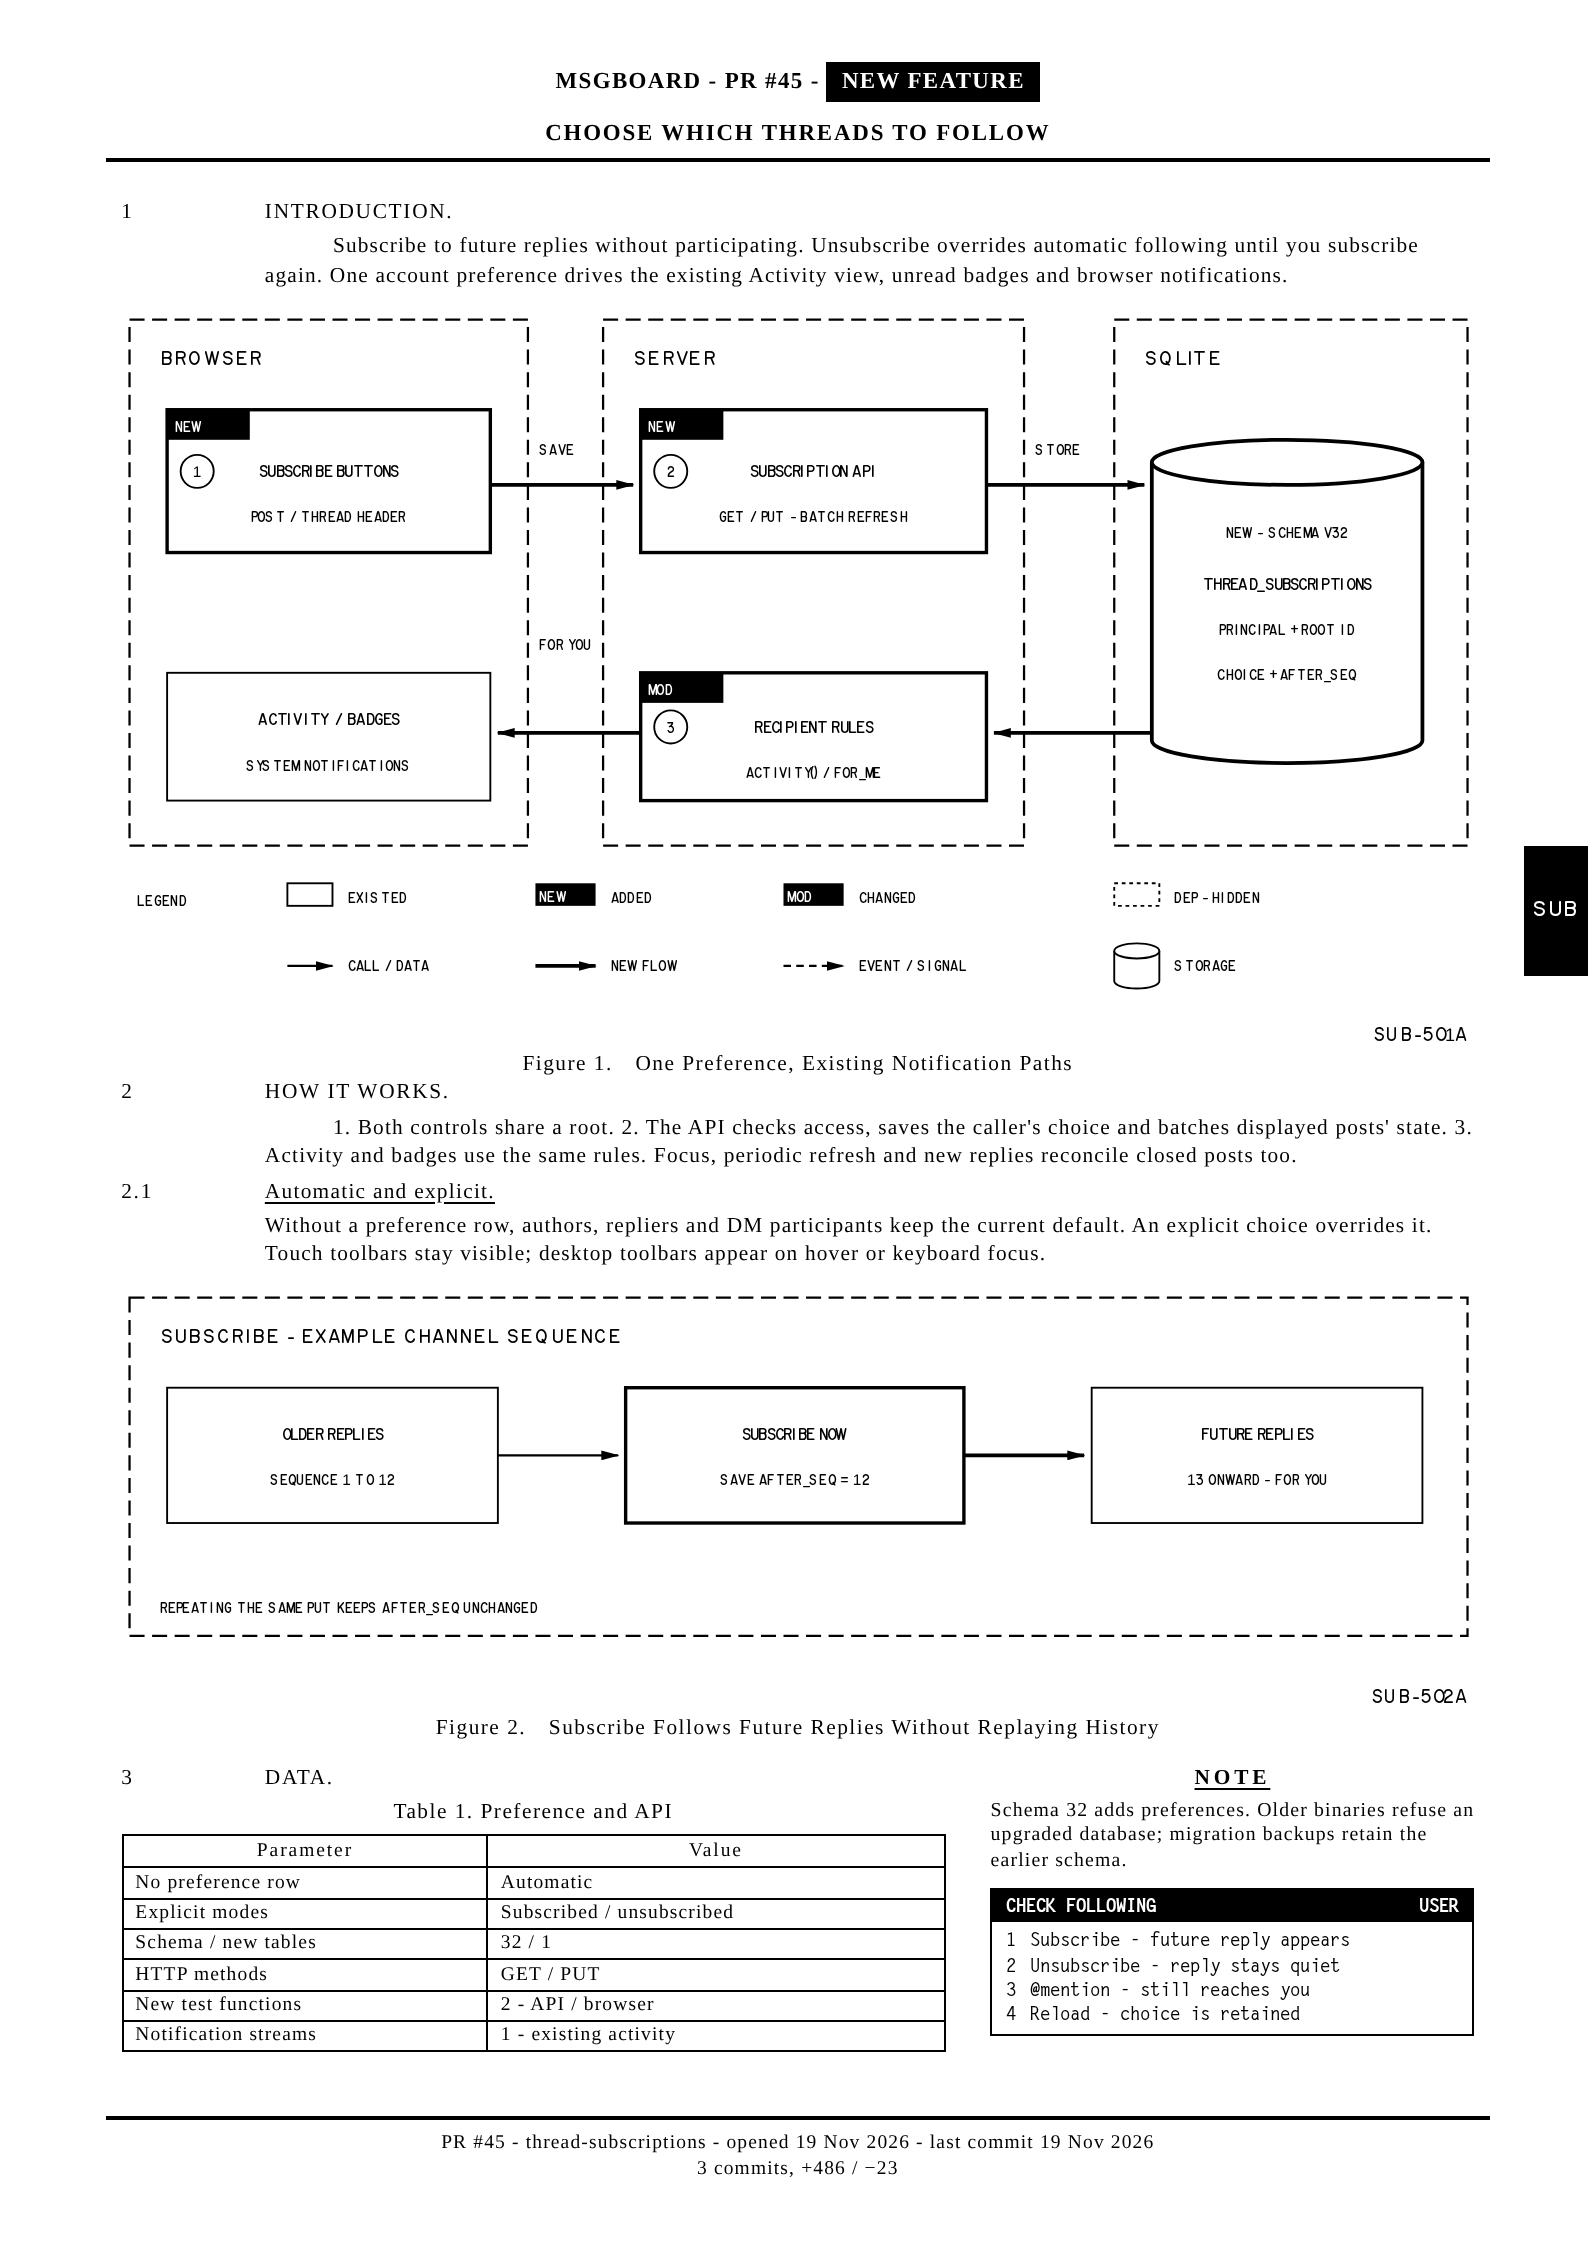
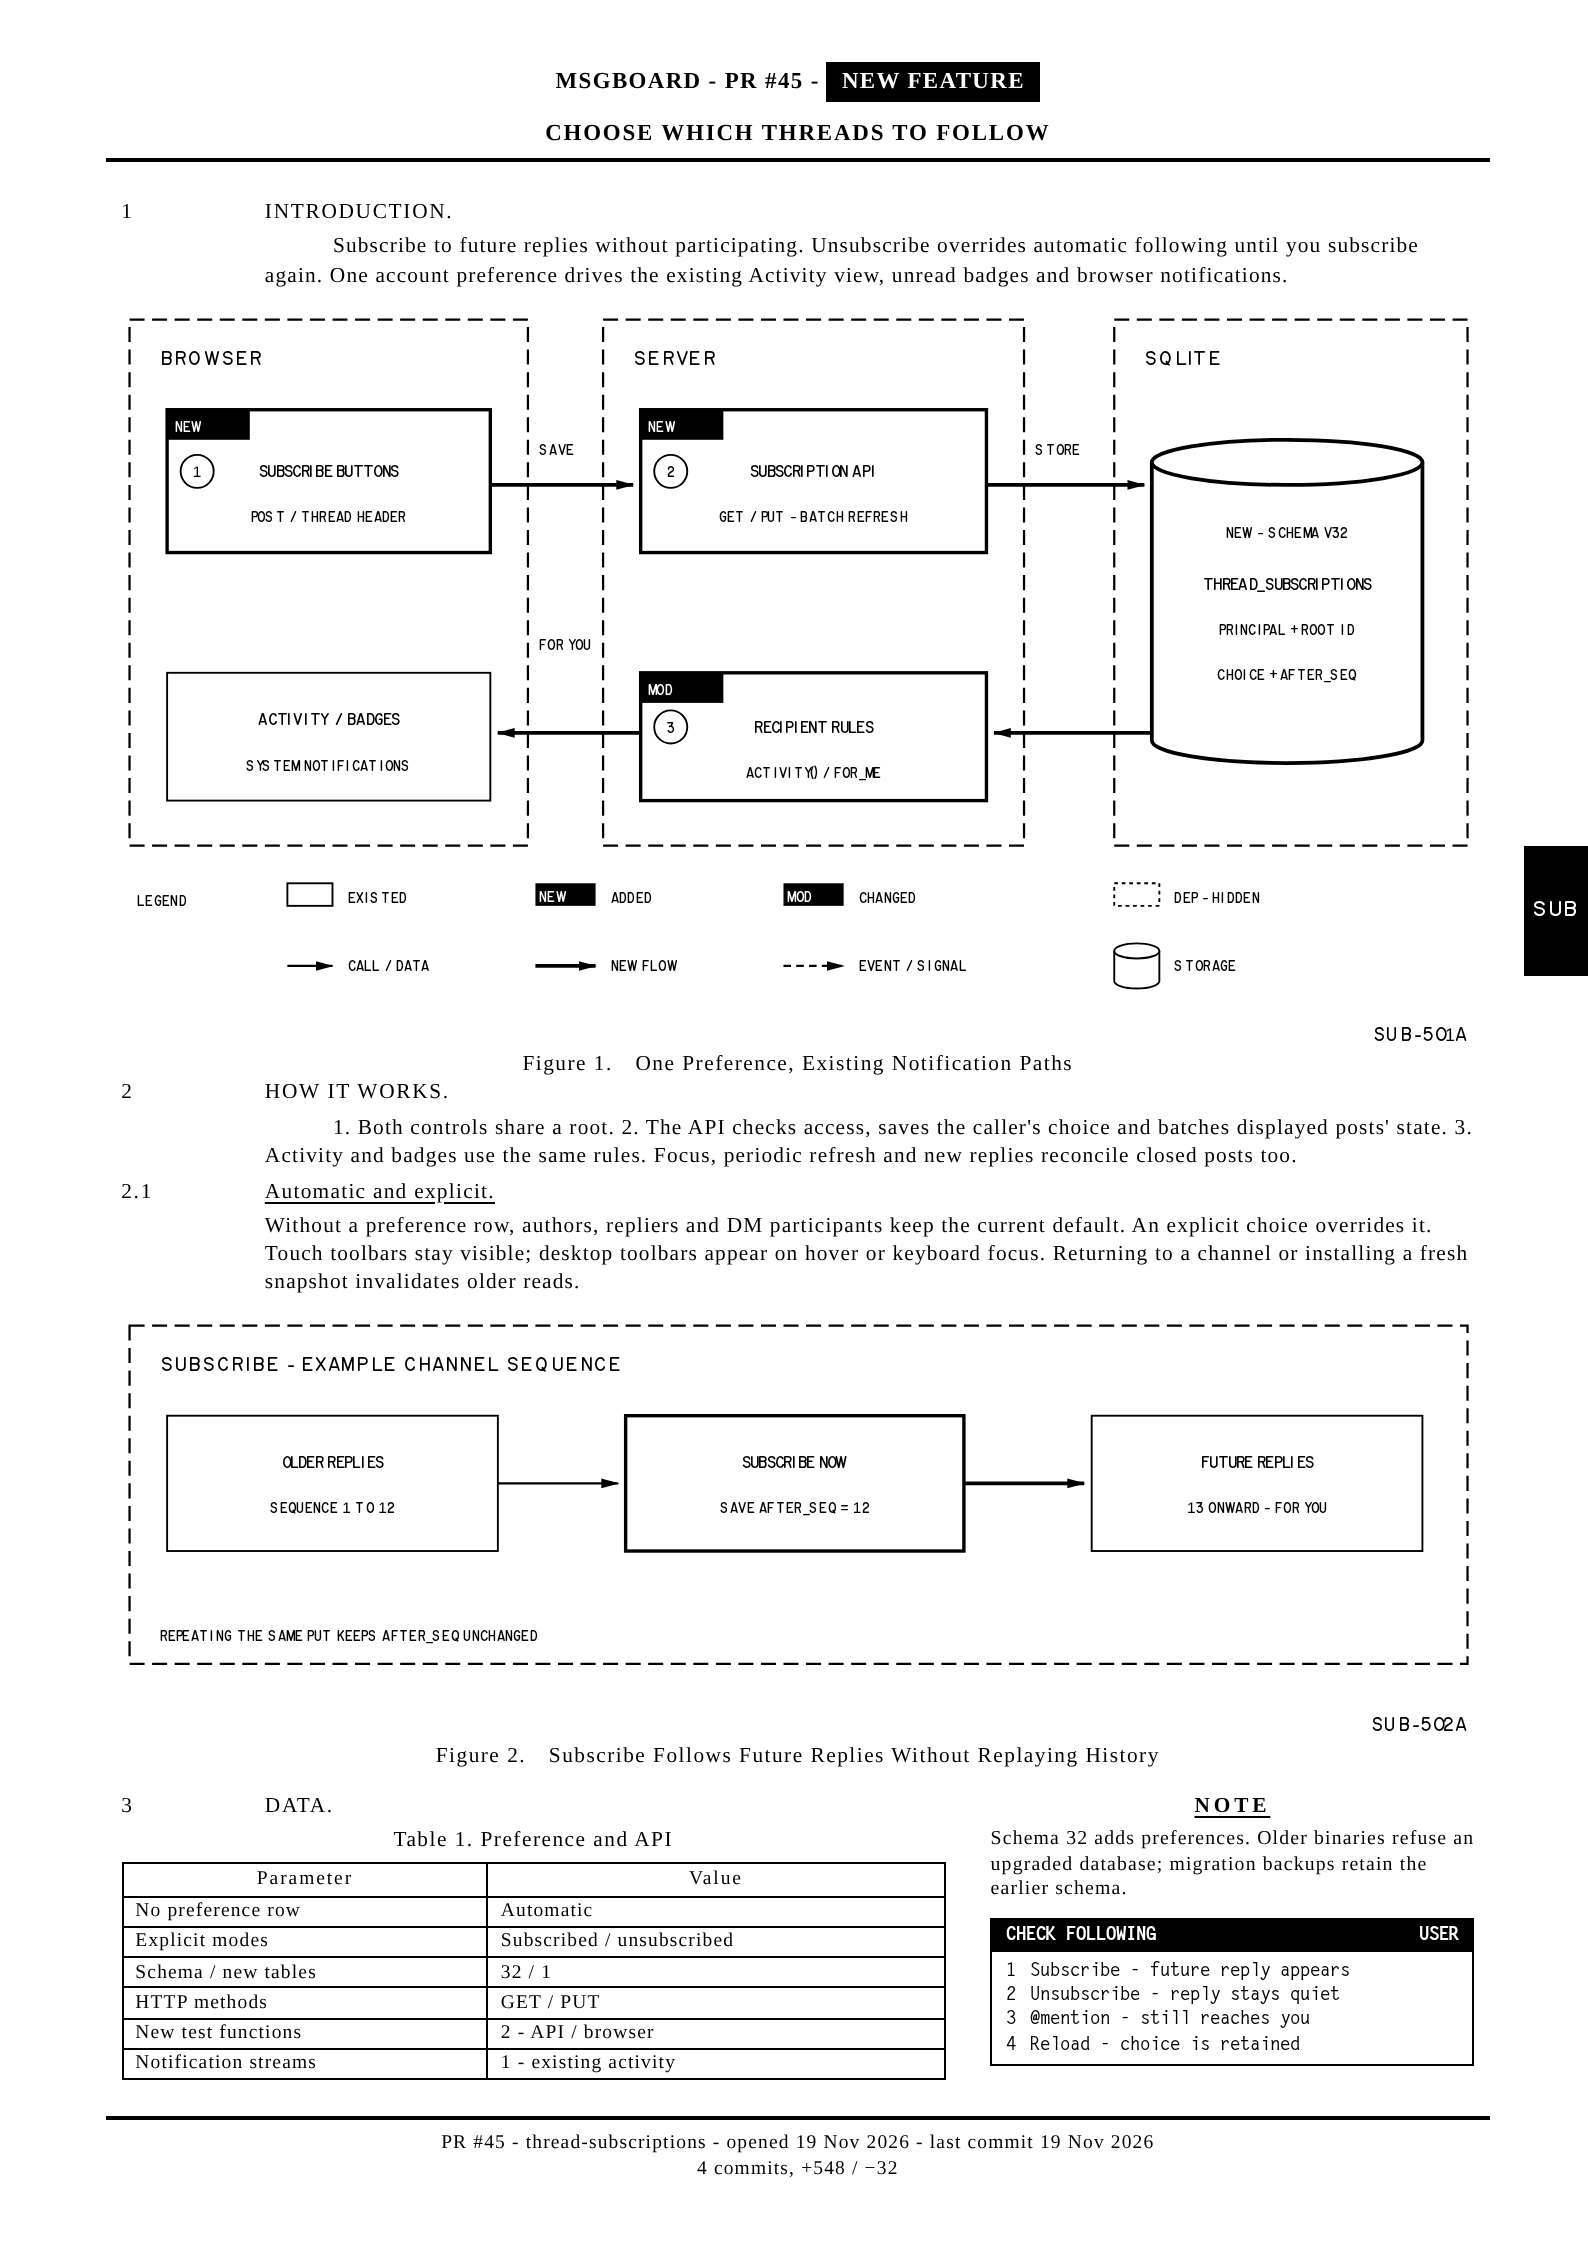
Document navigation race fix and native regressions

diff --git a/thread-subscriptions/pr-45.html b/thread-subscriptions/pr-45.html
@@ -157,14 +157,14 @@
 <text class="lbl-s" x="2" y="79">LEGEND</text><rect x="22" y="76" width="6" height="3" fill="white" stroke="black" stroke-width=".25"/><text class="lbl-s" x="30" y="78.6">EXISTED</text><rect x="55" y="76" width="8" height="3" fill="black"/><text class="lbl-s" x="55.5" y="78.5" style="fill:white">NEW</text><text class="lbl-s" x="65" y="78.6">ADDED</text><rect x="88" y="76" width="8" height="3" fill="black"/><text class="lbl-s" x="88.5" y="78.5" style="fill:white">MOD</text><text class="lbl-s" x="98" y="78.6">CHANGED</text><rect x="132" y="76" width="6" height="3" fill="white" stroke="black" stroke-width=".25" stroke-dasharray=".5 .5"/><text class="lbl-s" x="140" y="78.6">DEP - HIDDEN</text>
 <path class="wa" d="M22 87 H28"/><text class="lbl-s" x="30" y="87.7">CALL / DATA</text><path class="wa" style="stroke-width:.5" d="M55 87 H63"/><text class="lbl-s" x="65" y="87.7">NEW FLOW</text><path class="wa" style="stroke-dasharray:1 .7" d="M88 87 H96"/><text class="lbl-s" x="98" y="87.7">EVENT / SIGNAL</text><path d="M132 85 V89 A3 1 0 0 0 138 89 V85" fill="white" stroke="black" stroke-width=".25"/><ellipse cx="135" cy="85" rx="3" ry="1" fill="white" stroke="black" stroke-width=".25"/><text class="lbl-s" x="140" y="87.7">STORAGE</text><text class="code" x="179" y="97" text-anchor="end">SUB-501A</text></svg><figcaption><span class="n">Figure 1.</span>One Preference, Existing Notification Paths</figcaption></figure>
 <section class="para"><div class="num">2</div><div><h2>HOW IT WORKS.</h2><p>1. Both controls share a root. 2. The API checks access, saves the caller's choice and batches displayed posts' state. 3. Activity and badges use the same rules. Focus, periodic refresh and new replies reconcile closed posts too.</p></div></section>
-<section class="para"><div class="num">2.1</div><div><h3>Automatic and explicit.</h3><p class="flush">Without a preference row, authors, repliers and DM participants keep the current default. An explicit choice overrides it. Touch toolbars stay visible; desktop toolbars appear on hover or keyboard focus.</p></div></section>
+<section class="para"><div class="num">2.1</div><div><h3>Automatic and explicit.</h3><p class="flush">Without a preference row, authors, repliers and DM participants keep the current default. An explicit choice overrides it. Touch toolbars stay visible; desktop toolbars appear on hover or keyboard focus. Returning to a channel or installing a fresh snapshot invalidates older reads.</p></div></section>
 <figure><svg viewBox="0 0 180 56" role="img" aria-label="Subscribing after sequence 12 follows replies after sequence 12; repeating the request preserves the starting position">
 <rect class="panel" x="1" y="1" width="178" height="45"/><text class="lbl-b" x="5" y="7">SUBSCRIBE - EXAMPLE CHANNEL SEQUENCE</text>
 <rect x="6" y="13" width="44" height="18" fill="white" stroke="black" stroke-width=".25"/><text class="lbl" x="28" y="20" text-anchor="middle">OLDER REPLIES</text><text class="lbl-s" x="28" y="26" text-anchor="middle">SEQUENCE 1 TO 12</text><path class="wa" d="M50 22 H66"/>
 <rect class="box" x="67" y="13" width="45" height="18"/><text class="lbl" x="89.5" y="20" text-anchor="middle">SUBSCRIBE NOW</text><text class="lbl-s" x="89.5" y="26" text-anchor="middle">SAVE AFTER_SEQ = 12</text><path class="wa" style="stroke-width:.5" d="M112 22 H128"/>
 <rect x="129" y="13" width="44" height="18" fill="white" stroke="black" stroke-width=".25"/><text class="lbl" x="151" y="20" text-anchor="middle">FUTURE REPLIES</text><text class="lbl-s" x="151" y="26" text-anchor="middle">13 ONWARD - FOR YOU</text><text class="lbl-s" x="5" y="43">REPEATING THE SAME PUT KEEPS AFTER_SEQ UNCHANGED</text><text class="code" x="179" y="55" text-anchor="end">SUB-502A</text></svg><figcaption><span class="n">Figure 2.</span>Subscribe Follows Future Replies Without Replaying History</figcaption></figure>
 <div class="lower"><div><section class="para"><div class="num">3</div><div><h2>DATA.</h2></div></section><div class="tcap">Table 1. Preference and API</div><table><thead><tr><th>Parameter</th><th>Value</th></tr></thead><tbody><tr><td>No preference row</td><td class="v">Automatic</td></tr><tr><td>Explicit modes</td><td class="v">Subscribed / unsubscribed</td></tr><tr><td>Schema / new tables</td><td class="v">32 / 1</td></tr><tr><td>HTTP methods</td><td class="v">GET / PUT</td></tr><tr><td>New test functions</td><td class="v">2 - API / browser</td></tr><tr><td>Notification streams</td><td class="v">1 - existing activity</td></tr></tbody></table></div><div><div class="notice"><span class="tag">NOTE</span><p>Schema 32 adds preferences. Older binaries refuse an upgraded database; migration backups retain the earlier schema.</p></div><div class="card"><div class="bar"><span>CHECK FOLLOWING</span><span>USER</span></div><ol><li><span>1</span><span>Subscribe - future reply appears</span></li><li><span>2</span><span>Unsubscribe - reply stays quiet</span></li><li><span>3</span><span>@mention - still reaches you</span></li><li><span>4</span><span>Reload - choice is retained</span></li></ol></div></div></div>
-<footer class="foot"><div class="rule"></div><div style="text-align:center;font-size:7.3pt">PR #45 - thread-subscriptions - opened 19 Nov 2026 - last commit 19 Nov 2026<br>3 commits, +486 / −23</div></footer></div><script>
+<footer class="foot"><div class="rule"></div><div style="text-align:center;font-size:7.3pt">PR #45 - thread-subscriptions - opened 19 Nov 2026 - last commit 19 Nov 2026<br>4 commits, +548 / −32</div></footer></div><script>
   // Fit check: room left between the last content block and the footer.
   // .page hides overflow, so without this an overfull page fails silently.
   // render.sh prints the result from <html data-fit>.

diff --git a/thread-subscriptions/make_diagram.py b/thread-subscriptions/make_diagram.py
@@ -21,7 +21,7 @@ body=f'''<div class="page"><header class="head"><div class="doc">MSGBOARD - PR #
 <text class="lbl-s" x="2" y="79">LEGEND</text><rect x="22" y="76" width="6" height="3" fill="white" stroke="black" stroke-width=".25"/><text class="lbl-s" x="30" y="78.6">EXISTED</text><rect x="55" y="76" width="8" height="3" fill="black"/><text class="lbl-s" x="55.5" y="78.5" style="fill:white">NEW</text><text class="lbl-s" x="65" y="78.6">ADDED</text><rect x="88" y="76" width="8" height="3" fill="black"/><text class="lbl-s" x="88.5" y="78.5" style="fill:white">MOD</text><text class="lbl-s" x="98" y="78.6">CHANGED</text><rect x="132" y="76" width="6" height="3" fill="white" stroke="black" stroke-width=".25" stroke-dasharray=".5 .5"/><text class="lbl-s" x="140" y="78.6">DEP - HIDDEN</text>
 <path class="wa" d="M22 87 H28"/><text class="lbl-s" x="30" y="87.7">CALL / DATA</text><path class="wa" style="stroke-width:.5" d="M55 87 H63"/><text class="lbl-s" x="65" y="87.7">NEW FLOW</text><path class="wa" style="stroke-dasharray:1 .7" d="M88 87 H96"/><text class="lbl-s" x="98" y="87.7">EVENT / SIGNAL</text><path d="M132 85 V89 A3 1 0 0 0 138 89 V85" fill="white" stroke="black" stroke-width=".25"/><ellipse cx="135" cy="85" rx="3" ry="1" fill="white" stroke="black" stroke-width=".25"/><text class="lbl-s" x="140" y="87.7">STORAGE</text><text class="code" x="179" y="97" text-anchor="end">SUB-501A</text></svg><figcaption><span class="n">Figure 1.</span>One Preference, Existing Notification Paths</figcaption></figure>
 <section class="para"><div class="num">2</div><div><h2>HOW IT WORKS.</h2><p>1. Both controls share a root. 2. The API checks access, saves the caller's choice and batches displayed posts' state. 3. Activity and badges use the same rules. Focus, periodic refresh and new replies reconcile closed posts too.</p></div></section>
-<section class="para"><div class="num">2.1</div><div><h3>Automatic and explicit.</h3><p class="flush">Without a preference row, authors, repliers and DM participants keep the current default. An explicit choice overrides it. Touch toolbars stay visible; desktop toolbars appear on hover or keyboard focus.</p></div></section>
+<section class="para"><div class="num">2.1</div><div><h3>Automatic and explicit.</h3><p class="flush">Without a preference row, authors, repliers and DM participants keep the current default. An explicit choice overrides it. Touch toolbars stay visible; desktop toolbars appear on hover or keyboard focus. Returning to a channel or installing a fresh snapshot invalidates older reads.</p></div></section>
 <figure><svg viewBox="0 0 180 56" role="img" aria-label="Subscribing after sequence 12 follows replies after sequence 12; repeating the request preserves the starting position">
 <rect class="panel" x="1" y="1" width="178" height="45"/><text class="lbl-b" x="5" y="7">SUBSCRIBE - EXAMPLE CHANNEL SEQUENCE</text>
 <rect x="6" y="13" width="44" height="18" fill="white" stroke="black" stroke-width=".25"/><text class="lbl" x="28" y="20" text-anchor="middle">OLDER REPLIES</text><text class="lbl-s" x="28" y="26" text-anchor="middle">SEQUENCE 1 TO 12</text><path class="wa" d="M50 22 H66"/>
